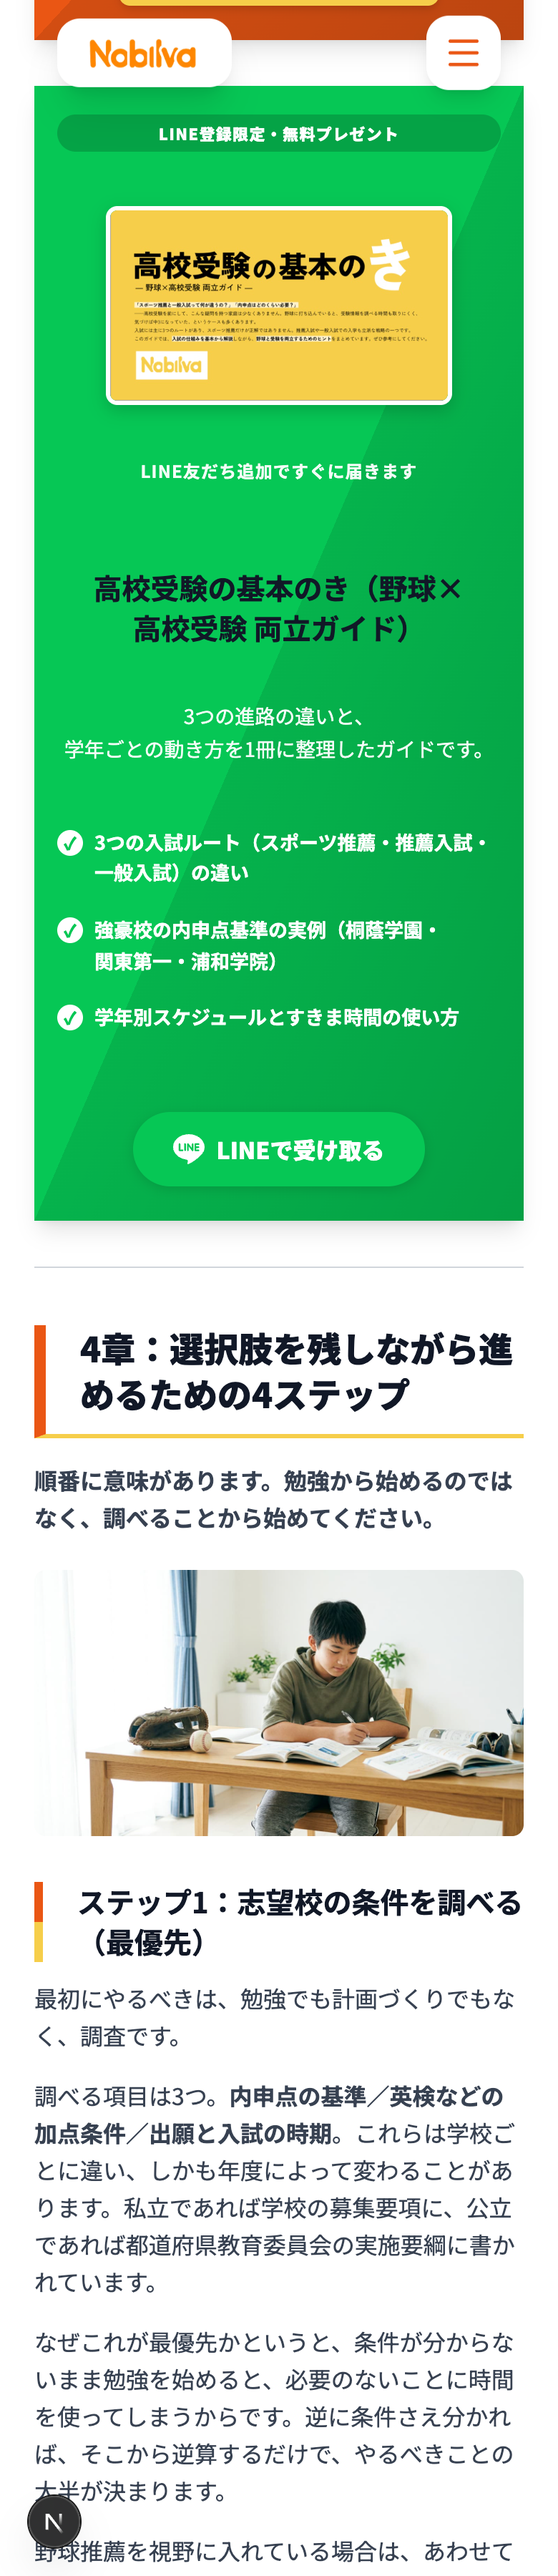
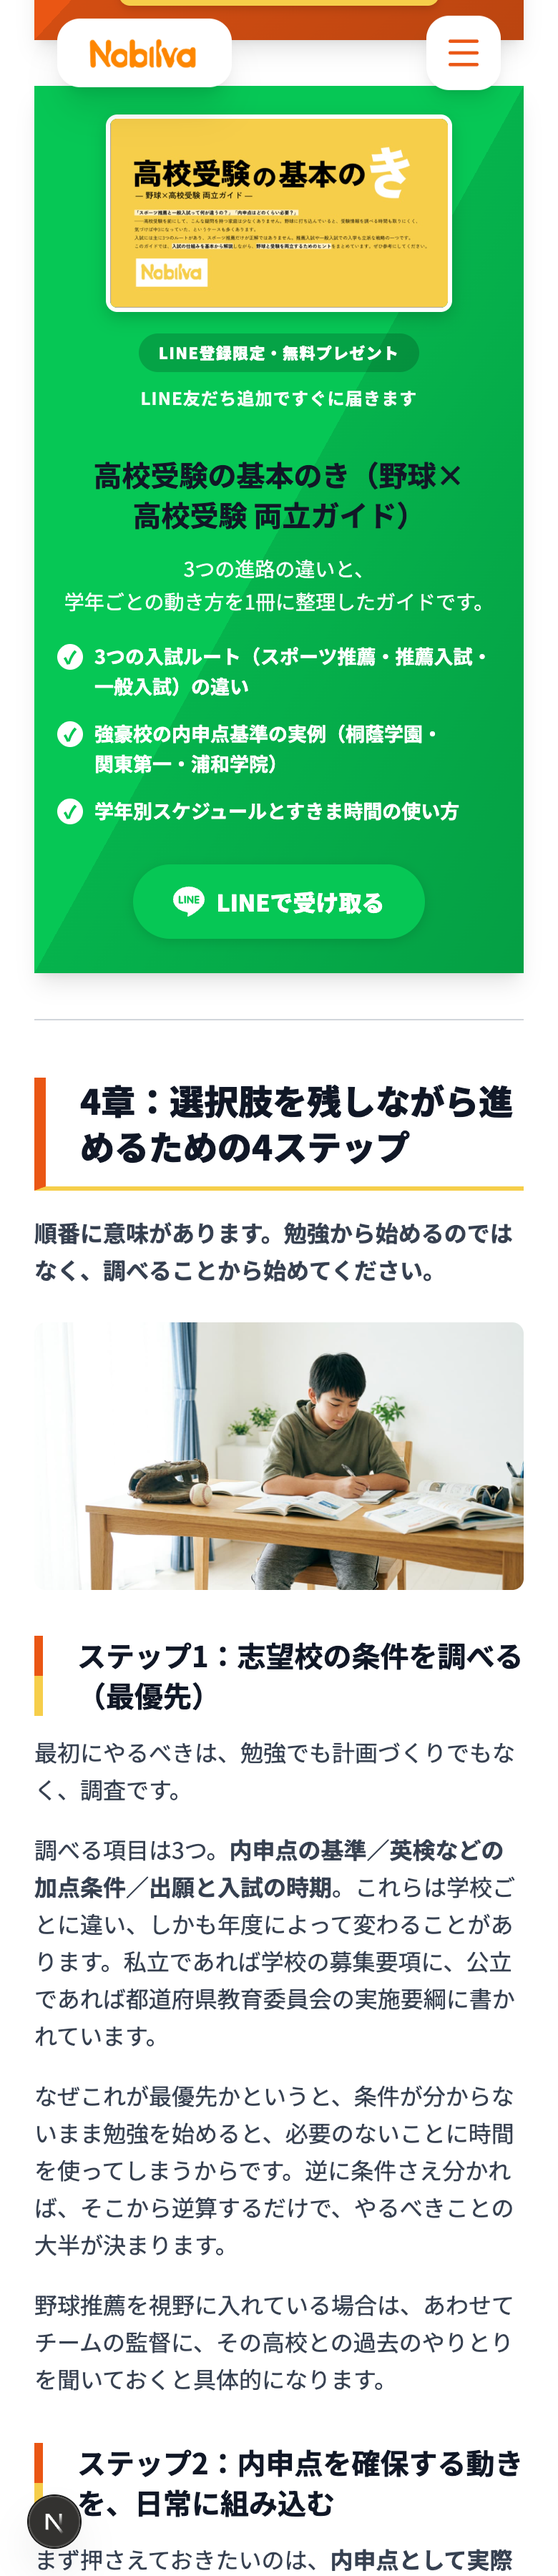
blog: LINE 特典カードの (a) 要素順を「表紙 → バッジ → ラベル → タイトル → ...」に並び替え、(b) タイトル「高校受験の基本のき (野球×高校受験 両立ガイド)」を text-stroke で視覚的にさらに太く、(c) 3項目チェックリストの行間を詰めて密度を上げる。(A) 要素順の変更: 表紙サムネを先頭に出し、バッジ (LINE登録限定・無料プレゼント) とラベル (LINE友だち追加ですぐに届きます) を写真の下に移動 (写真が最初の視覚フックになり、「このガイドが届く」という文脈が写真を見た後に目に入る順序に)。`lib/rehype-cta-plugin

diff --git a/lib/rehype-cta-plugin.ts b/lib/rehype-cta-plugin.ts
@@ -197,20 +197,7 @@ export const rehypeCtaPlugin: Plugin<[], Root> = () => {
                   'display:block;margin:0 auto;',
               },
               children: [
-                // ヘッダーバッジ (半透明の黒丸)
-                {
-                  type: 'element' as const,
-                  tagName: 'div',
-                  properties: {
-                    className: ['cta-line-badge'],
-                    style:
-                      'display:inline-block;background:rgba(0,0,0,0.18);padding:5px 14px;' +
-                      'border-radius:999px;color:#fff;font-size:11px;font-weight:800;' +
-                      'letter-spacing:0.06em;margin-bottom:14px;',
-                  },
-                  children: [{ type: 'text' as const, value: 'LINE登録限定・無料プレゼント' }],
-                },
-                // 表紙サムネ (スマホで大きめ、PC で縮小)
+                // 表紙サムネ (先頭に配置して視覚のフックに。スマホで大きめ、PC で縮小)
                 {
                   type: 'element' as const,
                   tagName: 'img',
@@ -227,6 +214,19 @@ export const rehypeCtaPlugin: Plugin<[], Root> = () => {
                   },
                   children: [],
                 },
+                // バッジ (写真の下に配置)
+                {
+                  type: 'element' as const,
+                  tagName: 'div',
+                  properties: {
+                    className: ['cta-line-badge'],
+                    style:
+                      'display:inline-block;background:rgba(0,0,0,0.18);padding:5px 14px;' +
+                      'border-radius:999px;color:#fff;font-size:11px;font-weight:800;' +
+                      'letter-spacing:0.06em;margin-bottom:10px;',
+                  },
+                  children: [{ type: 'text' as const, value: 'LINE登録限定・無料プレゼント' }],
+                },
                 // ラベル
                 {
                   type: 'element' as const,
@@ -237,7 +237,7 @@ export const rehypeCtaPlugin: Plugin<[], Root> = () => {
                   },
                   children: [{ type: 'text' as const, value: 'LINE友だち追加ですぐに届きます' }],
                 },
-                // 特典名 (大きい見出し)
+                // 特典名 (大きい見出し、text-stroke で視覚的にさらに太く)
                 {
                   type: 'element' as const,
                   tagName: 'h3',
@@ -245,7 +245,8 @@ export const rehypeCtaPlugin: Plugin<[], Root> = () => {
                     className: ['cta-line-gift-name', 'cta-line-heading'],
                     style:
                       'color:#fff;font-size:20px;font-weight:900;line-height:1.4;' +
-                      'margin:0 0 12px;letter-spacing:0.01em;',
+                      'margin:0 0 12px;letter-spacing:0.01em;' +
+                      '-webkit-text-stroke:0.6px #fff;text-shadow:0 1px 0 rgba(0,0,0,0.08);',
                   },
                   children: [{ type: 'text' as const, value: applySoftBreaks(gift) }],
                 },
@@ -274,8 +275,8 @@ export const rehypeCtaPlugin: Plugin<[], Root> = () => {
                     tagName: 'li',
                     properties: {
                       style:
-                        'position:relative;padding:5px 0 5px 26px;color:#fff;font-size:13.5px;' +
-                        'line-height:1.6;font-weight:600;',
+                        'position:relative;padding:2px 0 2px 26px;color:#fff;font-size:13.5px;' +
+                        'line-height:1.55;font-weight:600;',
                     },
                     children: [
                       {
@@ -283,7 +284,7 @@ export const rehypeCtaPlugin: Plugin<[], Root> = () => {
                         tagName: 'span',
                         properties: {
                           style:
-                            'position:absolute;left:0;top:7px;width:18px;height:18px;' +
+                            'position:absolute;left:0;top:4px;width:18px;height:18px;' +
                             'background:#fff;border-radius:50%;color:#06C755;font-weight:900;' +
                             'text-align:center;font-size:12px;line-height:18px;',
                         },

diff --git a/app/globals.css b/app/globals.css
@@ -511,7 +511,7 @@
       display: grid !important;
       grid-template-columns: 200px 1fr;
       grid-template-areas:
-        "badge badge"
+        "thumb badge"
         "thumb label"
         "thumb heading"
         "thumb sub"
@@ -524,8 +524,8 @@
     }
     .cta-line-inner-gift > .cta-line-badge {
       grid-area: badge;
-      justify-self: center;
-      margin-bottom: 12px !important;
+      justify-self: start;
+      margin-bottom: 6px !important;
     }
     .cta-line-inner-gift > .cta-line-thumb {
       grid-area: thumb;
